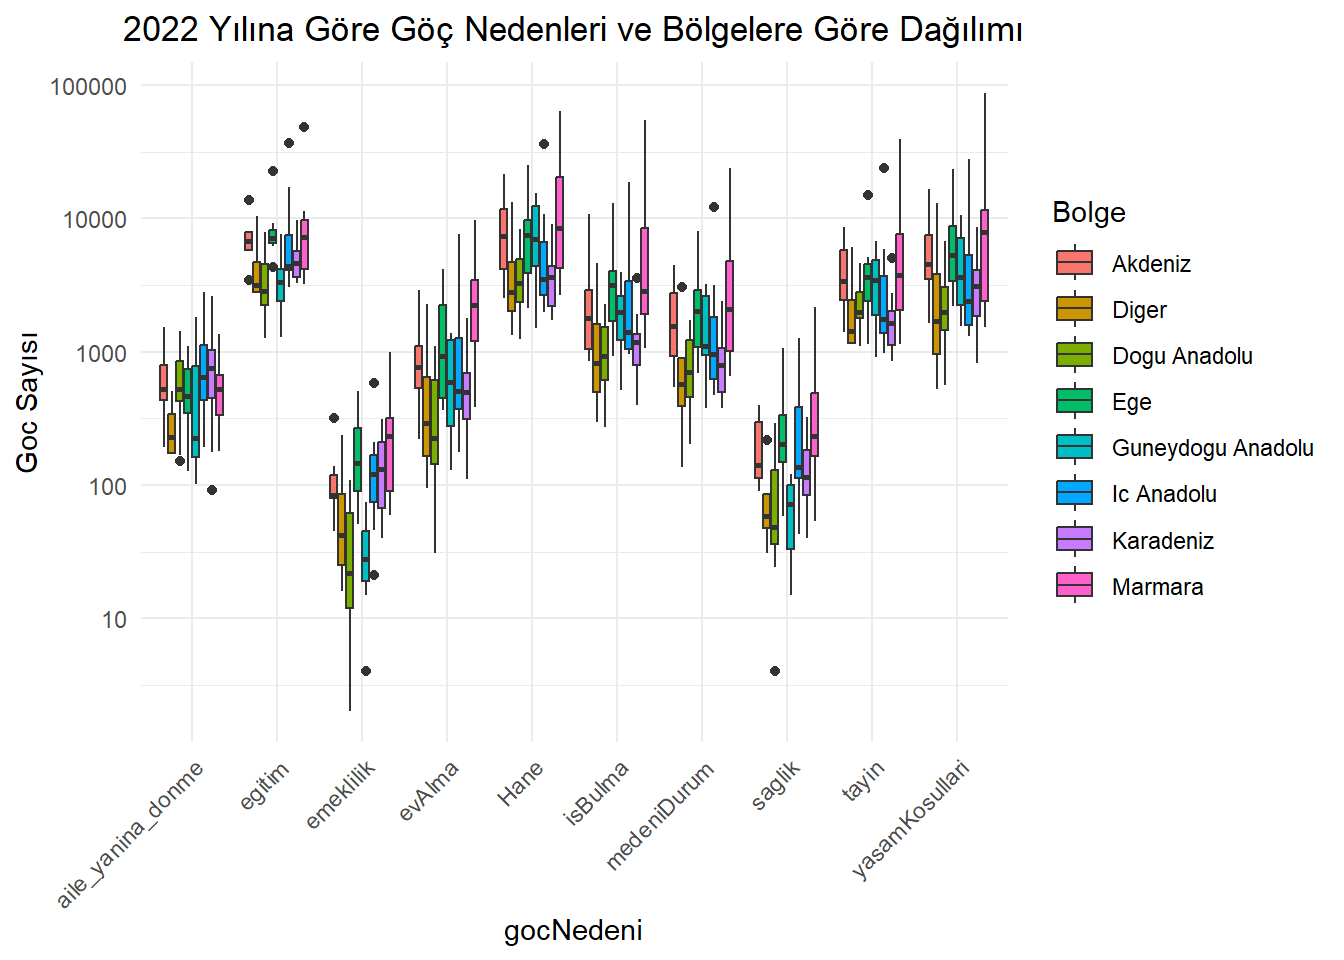
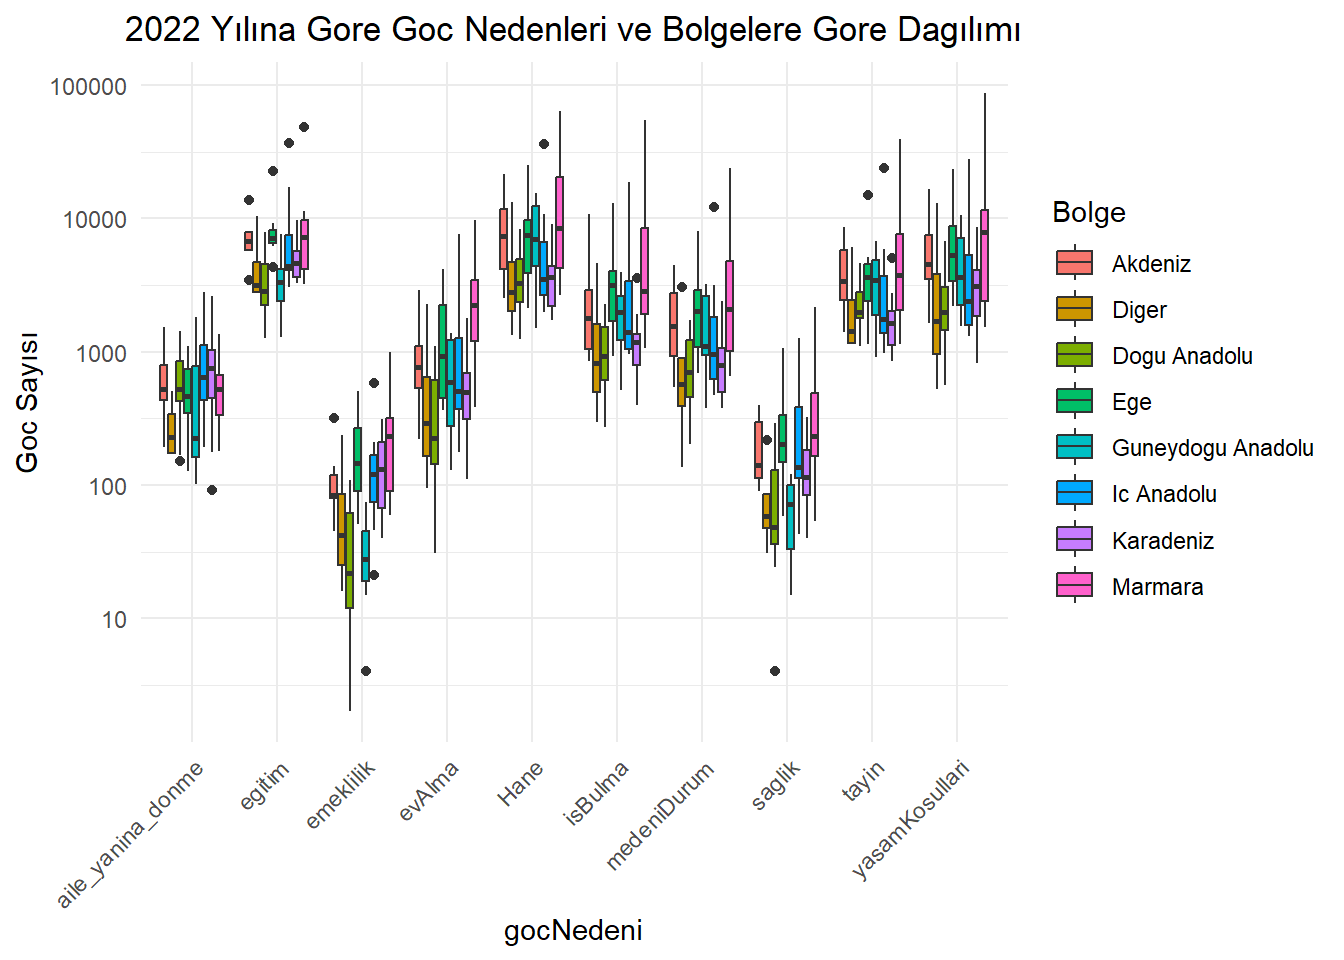
düzenleme
duzenleme

Changed region(s): [[0.5312, 0.0, 0.7812, 0.0625], [0.0938, 0.0, 0.3125, 0.0625]]

diff --git a/docs/proje.html b/docs/proje.html
@@ -529,29 +529,30 @@ The following object is masked from 'package:dplyr':
 </div>
 </div>
 <div class="cell">
-<div class="sourceCode cell-code" id="cb40"><pre class="sourceCode r code-with-copy"><code class="sourceCode r"><span id="cb40-1"><a href="#cb40-1" aria-hidden="true" tabindex="-1"></a>new_tidy_data <span class="ot">&lt;-</span> new_tidy_data <span class="sc">%&gt;%</span></span>
-<span id="cb40-2"><a href="#cb40-2" aria-hidden="true" tabindex="-1"></a>  <span class="fu">mutate</span>(<span class="at">bolge =</span> <span class="fu">case_when</span>(</span>
-<span id="cb40-3"><a href="#cb40-3" aria-hidden="true" tabindex="-1"></a>    il <span class="sc">%in%</span> <span class="fu">c</span>(<span class="st">"Istanbul"</span>, <span class="st">"Bursa"</span>, <span class="st">"Kocaeli"</span>, <span class="st">"Tekirdag"</span>,<span class="st">"Balikesir"</span>,<span class="st">"Canakkale"</span>,<span class="st">"Bilecik"</span>,<span class="st">"Edirne"</span>,<span class="st">"Kirklareli"</span>,<span class="st">"Sakarya"</span>,<span class="st">"Yalova"</span>) <span class="sc">~</span> <span class="st">"Marmara"</span>,</span>
-<span id="cb40-4"><a href="#cb40-4" aria-hidden="true" tabindex="-1"></a>    il <span class="sc">%in%</span> <span class="fu">c</span>(<span class="st">"Izmir"</span>, <span class="st">"Aydin"</span>, <span class="st">"Manisa"</span>,<span class="st">"Afyonkarahisar"</span>,<span class="st">"Denizli"</span>,<span class="st">"Kutahya"</span>,<span class="st">"Manisa"</span>,<span class="st">"Mugla"</span>,<span class="st">"Usak"</span>) <span class="sc">~</span> <span class="st">"Ege"</span>,</span>
-<span id="cb40-5"><a href="#cb40-5" aria-hidden="true" tabindex="-1"></a>    il <span class="sc">%in%</span> <span class="fu">c</span>(<span class="st">"Ankara"</span>, <span class="st">"Konya"</span>, <span class="st">"Eskisehir"</span>,<span class="st">"Cankiri"</span>,<span class="st">"Corum"</span>,<span class="st">"Kayseri"</span>,<span class="st">"Kirsehir</span></span>
-<span id="cb40-6"><a href="#cb40-6" aria-hidden="true" tabindex="-1"></a><span class="st">"</span>,<span class="st">"Konya"</span>,<span class="st">"Nevsehir"</span>,<span class="st">"Nigde"</span>,<span class="st">"Sivas"</span>,<span class="st">"Yozgat"</span>,<span class="st">"Aksaray"</span>,<span class="st">"Karaman"</span>,<span class="st">"Kirikkale"</span>) <span class="sc">~</span> <span class="st">"Ic Anadolu"</span>,</span>
-<span id="cb40-7"><a href="#cb40-7" aria-hidden="true" tabindex="-1"></a>    il <span class="sc">%in%</span> <span class="fu">c</span>(<span class="st">"Artvin"</span>, <span class="st">"Giresun"</span>, <span class="st">"Ordu"</span>,<span class="st">"Rize"</span>,<span class="st">"Sinop"</span>,<span class="st">"Tokat"</span>,<span class="st">"Trabzon"</span>,<span class="st">"Zonguldak"</span>,<span class="st">"Amasya"</span>,<span class="st">"Bolu"</span>,<span class="st">"Gumushane"</span>,<span class="st">"Kastamonu"</span>,<span class="st">"Samsun"</span>,<span class="st">"Sinop"</span>,<span class="st">"Bayburt</span></span>
-<span id="cb40-8"><a href="#cb40-8" aria-hidden="true" tabindex="-1"></a><span class="st">"</span>,<span class="st">"Bartin"</span>,<span class="st">"Karabuk"</span>,<span class="st">"Duzce"</span>) <span class="sc">~</span> <span class="st">"Karadeniz"</span>,</span>
-<span id="cb40-9"><a href="#cb40-9" aria-hidden="true" tabindex="-1"></a>    il <span class="sc">%in%</span> <span class="fu">c</span>(<span class="st">"Adana"</span>, <span class="st">"Antalya"</span>,<span class="st">"Burdur"</span>,<span class="st">"Hatay"</span>,<span class="st">"Isparta"</span>,<span class="st">"Kahramanmaras"</span>,<span class="st">"Osmaniye"</span>) <span class="sc">~</span> <span class="st">"Akdeniz"</span>,</span>
-<span id="cb40-10"><a href="#cb40-10" aria-hidden="true" tabindex="-1"></a>    il <span class="sc">%in%</span> <span class="fu">c</span>(<span class="st">"Adiyaman"</span>,<span class="st">"Diyarbakir"</span>,<span class="st">"Gaziantep"</span>,<span class="st">"Mardin"</span>,<span class="st">"Siirt"</span>,<span class="st">"Sanliurfa"</span>,<span class="st">"Batman"</span>,<span class="st">"Sirnak"</span>,<span class="st">"Kilis"</span>) <span class="sc">~</span> <span class="st">"Guneydogu Anadolu"</span>,</span>
-<span id="cb40-11"><a href="#cb40-11" aria-hidden="true" tabindex="-1"></a>    il <span class="sc">%in%</span> <span class="fu">c</span>(<span class="st">"Agri"</span>,<span class="st">"Bingol"</span>,<span class="st">"Bitlis"</span>,<span class="st">"Elazig"</span>,<span class="st">"Erzincan"</span>,<span class="st">"Erzurum"</span>,<span class="st">"Hakkari"</span>,<span class="st">"Kars"</span>,<span class="st">"Malatya"</span>,<span class="st">"Muş"</span>,<span class="st">"Tunceli"</span>,<span class="st">"Van"</span>,<span class="st">"Ardahan"</span>,<span class="st">"Igdir"</span>) <span class="sc">~</span> <span class="st">"Dogu Anadolu"</span>,</span>
-<span id="cb40-12"><a href="#cb40-12" aria-hidden="true" tabindex="-1"></a>    <span class="cn">TRUE</span> <span class="sc">~</span> <span class="st">"Diger"</span> <span class="co"># Diğer bölgelere dahil olan iller için bir kategori belirleyin</span></span>
-<span id="cb40-13"><a href="#cb40-13" aria-hidden="true" tabindex="-1"></a>  ))</span>
-<span id="cb40-14"><a href="#cb40-14" aria-hidden="true" tabindex="-1"></a><span class="fu">ggplot</span>(new_tidy_data <span class="sc">%&gt;%</span> <span class="fu">filter</span>(yil <span class="sc">==</span> <span class="dv">2022</span>), <span class="fu">aes</span>(<span class="at">x =</span> gocNedeni, <span class="at">y =</span> gocSayisi, <span class="at">fill =</span> bolge)) <span class="sc">+</span></span>
-<span id="cb40-15"><a href="#cb40-15" aria-hidden="true" tabindex="-1"></a>  <span class="fu">geom_boxplot</span>() <span class="sc">+</span></span>
-<span id="cb40-16"><a href="#cb40-16" aria-hidden="true" tabindex="-1"></a>  <span class="fu">labs</span>(<span class="at">title =</span> <span class="st">"2022 Yılına Göre Göç Nedenleri ve Bölgelere Göre Dağılımı"</span>,</span>
-<span id="cb40-17"><a href="#cb40-17" aria-hidden="true" tabindex="-1"></a>       <span class="at">x =</span> <span class="st">"gocNedeni"</span>,</span>
-<span id="cb40-18"><a href="#cb40-18" aria-hidden="true" tabindex="-1"></a>       <span class="at">y =</span> <span class="st">"Goc Sayısı"</span>,</span>
-<span id="cb40-19"><a href="#cb40-19" aria-hidden="true" tabindex="-1"></a>       <span class="at">fill =</span> <span class="st">"Bolge"</span>) <span class="sc">+</span></span>
-<span id="cb40-20"><a href="#cb40-20" aria-hidden="true" tabindex="-1"></a>  <span class="fu">theme_minimal</span>() <span class="sc">+</span></span>
-<span id="cb40-21"><a href="#cb40-21" aria-hidden="true" tabindex="-1"></a>  <span class="fu">theme</span>(<span class="at">plot.title =</span> <span class="fu">element_text</span>(<span class="at">hjust =</span> <span class="fl">0.5</span>),</span>
-<span id="cb40-22"><a href="#cb40-22" aria-hidden="true" tabindex="-1"></a>        <span class="at">axis.text.x =</span> <span class="fu">element_text</span>(<span class="at">angle =</span> <span class="dv">45</span>, <span class="at">hjust =</span> <span class="dv">1</span>))<span class="sc">+</span></span>
-<span id="cb40-23"><a href="#cb40-23" aria-hidden="true" tabindex="-1"></a> <span class="fu">scale_y_continuous</span>(<span class="at">trans =</span> <span class="st">'log10'</span>, <span class="at">labels =</span> <span class="cf">function</span>(x) <span class="fu">format</span>(x, <span class="at">scientific =</span> <span class="cn">FALSE</span>))  <span class="co"># Y eksenini logaritmik ölçekleme yaparak ayarla</span></span></code><button title="Copy to Clipboard" class="code-copy-button"><i class="bi"></i></button></pre></div>
+<div class="sourceCode cell-code" id="cb40"><pre class="sourceCode r code-with-copy"><code class="sourceCode r"><span id="cb40-1"><a href="#cb40-1" aria-hidden="true" tabindex="-1"></a><span class="do">##boxplot data görsel</span></span>
+<span id="cb40-2"><a href="#cb40-2" aria-hidden="true" tabindex="-1"></a>new_tidy_data <span class="ot">&lt;-</span> new_tidy_data <span class="sc">%&gt;%</span></span>
+<span id="cb40-3"><a href="#cb40-3" aria-hidden="true" tabindex="-1"></a>  <span class="fu">mutate</span>(<span class="at">bolge =</span> <span class="fu">case_when</span>(</span>
+<span id="cb40-4"><a href="#cb40-4" aria-hidden="true" tabindex="-1"></a>    il <span class="sc">%in%</span> <span class="fu">c</span>(<span class="st">"Istanbul"</span>, <span class="st">"Bursa"</span>, <span class="st">"Kocaeli"</span>, <span class="st">"Tekirdag"</span>,<span class="st">"Balikesir"</span>,<span class="st">"Canakkale"</span>,<span class="st">"Bilecik"</span>,<span class="st">"Edirne"</span>,<span class="st">"Kirklareli"</span>,<span class="st">"Sakarya"</span>,<span class="st">"Yalova"</span>) <span class="sc">~</span> <span class="st">"Marmara"</span>,</span>
+<span id="cb40-5"><a href="#cb40-5" aria-hidden="true" tabindex="-1"></a>    il <span class="sc">%in%</span> <span class="fu">c</span>(<span class="st">"Izmir"</span>, <span class="st">"Aydin"</span>, <span class="st">"Manisa"</span>,<span class="st">"Afyonkarahisar"</span>,<span class="st">"Denizli"</span>,<span class="st">"Kutahya"</span>,<span class="st">"Manisa"</span>,<span class="st">"Mugla"</span>,<span class="st">"Usak"</span>) <span class="sc">~</span> <span class="st">"Ege"</span>,</span>
+<span id="cb40-6"><a href="#cb40-6" aria-hidden="true" tabindex="-1"></a>    il <span class="sc">%in%</span> <span class="fu">c</span>(<span class="st">"Ankara"</span>, <span class="st">"Konya"</span>, <span class="st">"Eskisehir"</span>,<span class="st">"Cankiri"</span>,<span class="st">"Corum"</span>,<span class="st">"Kayseri"</span>,<span class="st">"Kirsehir</span></span>
+<span id="cb40-7"><a href="#cb40-7" aria-hidden="true" tabindex="-1"></a><span class="st">"</span>,<span class="st">"Konya"</span>,<span class="st">"Nevsehir"</span>,<span class="st">"Nigde"</span>,<span class="st">"Sivas"</span>,<span class="st">"Yozgat"</span>,<span class="st">"Aksaray"</span>,<span class="st">"Karaman"</span>,<span class="st">"Kirikkale"</span>) <span class="sc">~</span> <span class="st">"Ic Anadolu"</span>,</span>
+<span id="cb40-8"><a href="#cb40-8" aria-hidden="true" tabindex="-1"></a>    il <span class="sc">%in%</span> <span class="fu">c</span>(<span class="st">"Artvin"</span>, <span class="st">"Giresun"</span>, <span class="st">"Ordu"</span>,<span class="st">"Rize"</span>,<span class="st">"Sinop"</span>,<span class="st">"Tokat"</span>,<span class="st">"Trabzon"</span>,<span class="st">"Zonguldak"</span>,<span class="st">"Amasya"</span>,<span class="st">"Bolu"</span>,<span class="st">"Gumushane"</span>,<span class="st">"Kastamonu"</span>,<span class="st">"Samsun"</span>,<span class="st">"Sinop"</span>,<span class="st">"Bayburt</span></span>
+<span id="cb40-9"><a href="#cb40-9" aria-hidden="true" tabindex="-1"></a><span class="st">"</span>,<span class="st">"Bartin"</span>,<span class="st">"Karabuk"</span>,<span class="st">"Duzce"</span>) <span class="sc">~</span> <span class="st">"Karadeniz"</span>,</span>
+<span id="cb40-10"><a href="#cb40-10" aria-hidden="true" tabindex="-1"></a>    il <span class="sc">%in%</span> <span class="fu">c</span>(<span class="st">"Adana"</span>, <span class="st">"Antalya"</span>,<span class="st">"Burdur"</span>,<span class="st">"Hatay"</span>,<span class="st">"Isparta"</span>,<span class="st">"Kahramanmaras"</span>,<span class="st">"Osmaniye"</span>) <span class="sc">~</span> <span class="st">"Akdeniz"</span>,</span>
+<span id="cb40-11"><a href="#cb40-11" aria-hidden="true" tabindex="-1"></a>    il <span class="sc">%in%</span> <span class="fu">c</span>(<span class="st">"Adiyaman"</span>,<span class="st">"Diyarbakir"</span>,<span class="st">"Gaziantep"</span>,<span class="st">"Mardin"</span>,<span class="st">"Siirt"</span>,<span class="st">"Sanliurfa"</span>,<span class="st">"Batman"</span>,<span class="st">"Sirnak"</span>,<span class="st">"Kilis"</span>) <span class="sc">~</span> <span class="st">"Guneydogu Anadolu"</span>,</span>
+<span id="cb40-12"><a href="#cb40-12" aria-hidden="true" tabindex="-1"></a>    il <span class="sc">%in%</span> <span class="fu">c</span>(<span class="st">"Agri"</span>,<span class="st">"Bingol"</span>,<span class="st">"Bitlis"</span>,<span class="st">"Elazig"</span>,<span class="st">"Erzincan"</span>,<span class="st">"Erzurum"</span>,<span class="st">"Hakkari"</span>,<span class="st">"Kars"</span>,<span class="st">"Malatya"</span>,<span class="st">"Muş"</span>,<span class="st">"Tunceli"</span>,<span class="st">"Van"</span>,<span class="st">"Ardahan"</span>,<span class="st">"Igdir"</span>) <span class="sc">~</span> <span class="st">"Dogu Anadolu"</span>,</span>
+<span id="cb40-13"><a href="#cb40-13" aria-hidden="true" tabindex="-1"></a>    <span class="cn">TRUE</span> <span class="sc">~</span> <span class="st">"Diger"</span> <span class="co"># Diğer bölgelere dahil olan iller için bir kategori belirleyin</span></span>
+<span id="cb40-14"><a href="#cb40-14" aria-hidden="true" tabindex="-1"></a>  ))</span>
+<span id="cb40-15"><a href="#cb40-15" aria-hidden="true" tabindex="-1"></a><span class="fu">ggplot</span>(new_tidy_data <span class="sc">%&gt;%</span> <span class="fu">filter</span>(yil <span class="sc">==</span> <span class="dv">2022</span>), <span class="fu">aes</span>(<span class="at">x =</span> gocNedeni, <span class="at">y =</span> gocSayisi, <span class="at">fill =</span> bolge)) <span class="sc">+</span></span>
+<span id="cb40-16"><a href="#cb40-16" aria-hidden="true" tabindex="-1"></a>  <span class="fu">geom_boxplot</span>() <span class="sc">+</span></span>
+<span id="cb40-17"><a href="#cb40-17" aria-hidden="true" tabindex="-1"></a>  <span class="fu">labs</span>(<span class="at">title =</span> <span class="st">"2022 Yılına Gore Goc Nedenleri ve Bolgelere Gore Dagılımı"</span>,</span>
+<span id="cb40-18"><a href="#cb40-18" aria-hidden="true" tabindex="-1"></a>       <span class="at">x =</span> <span class="st">"gocNedeni"</span>,</span>
+<span id="cb40-19"><a href="#cb40-19" aria-hidden="true" tabindex="-1"></a>       <span class="at">y =</span> <span class="st">"Goc Sayısı"</span>,</span>
+<span id="cb40-20"><a href="#cb40-20" aria-hidden="true" tabindex="-1"></a>       <span class="at">fill =</span> <span class="st">"Bolge"</span>) <span class="sc">+</span></span>
+<span id="cb40-21"><a href="#cb40-21" aria-hidden="true" tabindex="-1"></a>  <span class="fu">theme_minimal</span>() <span class="sc">+</span></span>
+<span id="cb40-22"><a href="#cb40-22" aria-hidden="true" tabindex="-1"></a>  <span class="fu">theme</span>(<span class="at">plot.title =</span> <span class="fu">element_text</span>(<span class="at">hjust =</span> <span class="fl">0.5</span>),</span>
+<span id="cb40-23"><a href="#cb40-23" aria-hidden="true" tabindex="-1"></a>        <span class="at">axis.text.x =</span> <span class="fu">element_text</span>(<span class="at">angle =</span> <span class="dv">45</span>, <span class="at">hjust =</span> <span class="dv">1</span>))<span class="sc">+</span></span>
+<span id="cb40-24"><a href="#cb40-24" aria-hidden="true" tabindex="-1"></a> <span class="fu">scale_y_continuous</span>(<span class="at">trans =</span> <span class="st">'log10'</span>, <span class="at">labels =</span> <span class="cf">function</span>(x) <span class="fu">format</span>(x, <span class="at">scientific =</span> <span class="cn">FALSE</span>))  <span class="co"># Y eksenini logaritmik ölçekleme yaparak ayarla</span></span></code><button title="Copy to Clipboard" class="code-copy-button"><i class="bi"></i></button></pre></div>
 <div class="cell-output-display">
 <p><img src="proje_files/figure-html/unnamed-chunk-19-1.png" class="img-fluid" width="672"></p>
 </div>
@@ -586,33 +587,6 @@ The following object is masked from 'package:dplyr':
 </div>
 <div class="cell-output-display">
 <p><img src="proje_files/figure-html/unnamed-chunk-20-1.png" class="img-fluid" width="672"></p>
-</div>
-</div>
-<div class="cell">
-<div class="sourceCode cell-code" id="cb43"><pre class="sourceCode r code-with-copy"><code class="sourceCode r"><span id="cb43-1"><a href="#cb43-1" aria-hidden="true" tabindex="-1"></a>new_tidy_data <span class="ot">&lt;-</span> new_tidy_data <span class="sc">%&gt;%</span></span>
-<span id="cb43-2"><a href="#cb43-2" aria-hidden="true" tabindex="-1"></a>  <span class="fu">mutate</span>(<span class="at">bolge =</span> <span class="fu">case_when</span>(</span>
-<span id="cb43-3"><a href="#cb43-3" aria-hidden="true" tabindex="-1"></a>    il <span class="sc">%in%</span> <span class="fu">c</span>(<span class="st">"Istanbul"</span>, <span class="st">"Bursa"</span>, <span class="st">"Kocaeli"</span>, <span class="st">"Tekirdag"</span>,<span class="st">"Balikesir"</span>,<span class="st">"Canakkale"</span>,<span class="st">"Bilecik"</span>,<span class="st">"Edirne"</span>,<span class="st">"Kirklareli"</span>,<span class="st">"Sakarya"</span>,<span class="st">"Yalova"</span>) <span class="sc">~</span> <span class="st">"Marmara"</span>,</span>
-<span id="cb43-4"><a href="#cb43-4" aria-hidden="true" tabindex="-1"></a>    il <span class="sc">%in%</span> <span class="fu">c</span>(<span class="st">"Izmir"</span>, <span class="st">"Aydin"</span>, <span class="st">"Manisa"</span>,<span class="st">"Afyonkarahisar"</span>,<span class="st">"Denizli"</span>,<span class="st">"Kutahya"</span>,<span class="st">"Manisa"</span>,<span class="st">"Mugla"</span>,<span class="st">"Usak"</span>) <span class="sc">~</span> <span class="st">"Ege"</span>,</span>
-<span id="cb43-5"><a href="#cb43-5" aria-hidden="true" tabindex="-1"></a>    il <span class="sc">%in%</span> <span class="fu">c</span>(<span class="st">"Ankara"</span>, <span class="st">"Konya"</span>, <span class="st">"Eskisehir"</span>,<span class="st">"Cankiri"</span>,<span class="st">"Corum"</span>,<span class="st">"Kayseri"</span>,<span class="st">"Kirsehir</span></span>
-<span id="cb43-6"><a href="#cb43-6" aria-hidden="true" tabindex="-1"></a><span class="st">"</span>,<span class="st">"Konya"</span>,<span class="st">"Nevsehir"</span>,<span class="st">"Nigde"</span>,<span class="st">"Sivas"</span>,<span class="st">"Yozgat"</span>,<span class="st">"Aksaray"</span>,<span class="st">"Karaman"</span>,<span class="st">"Kirikkale"</span>) <span class="sc">~</span> <span class="st">"Ic Anadolu"</span>,</span>
-<span id="cb43-7"><a href="#cb43-7" aria-hidden="true" tabindex="-1"></a>    il <span class="sc">%in%</span> <span class="fu">c</span>(<span class="st">"Artvin"</span>, <span class="st">"Giresun"</span>, <span class="st">"Ordu"</span>,<span class="st">"Rize"</span>,<span class="st">"Sinop"</span>,<span class="st">"Tokat"</span>,<span class="st">"Trabzon"</span>,<span class="st">"Zonguldak"</span>,<span class="st">"Amasya"</span>,<span class="st">"Bolu"</span>,<span class="st">"Gumushane"</span>,<span class="st">"Kastamonu"</span>,<span class="st">"Samsun"</span>,<span class="st">"Sinop"</span>,<span class="st">"Bayburt</span></span>
-<span id="cb43-8"><a href="#cb43-8" aria-hidden="true" tabindex="-1"></a><span class="st">"</span>,<span class="st">"Bartin"</span>,<span class="st">"Karabuk"</span>,<span class="st">"Duzce"</span>) <span class="sc">~</span> <span class="st">"Karadeniz"</span>,</span>
-<span id="cb43-9"><a href="#cb43-9" aria-hidden="true" tabindex="-1"></a>    il <span class="sc">%in%</span> <span class="fu">c</span>(<span class="st">"Adana"</span>, <span class="st">"Antalya"</span>,<span class="st">"Burdur"</span>,<span class="st">"Hatay"</span>,<span class="st">"Isparta"</span>,<span class="st">"Kahramanmaras"</span>,<span class="st">"Osmaniye"</span>) <span class="sc">~</span> <span class="st">"Akdeniz"</span>,</span>
-<span id="cb43-10"><a href="#cb43-10" aria-hidden="true" tabindex="-1"></a>    il <span class="sc">%in%</span> <span class="fu">c</span>(<span class="st">"Adiyaman"</span>,<span class="st">"Diyarbakir"</span>,<span class="st">"Gaziantep"</span>,<span class="st">"Mardin"</span>,<span class="st">"Siirt"</span>,<span class="st">"Sanliurfa"</span>,<span class="st">"Batman"</span>,<span class="st">"Sirnak"</span>,<span class="st">"Kilis"</span>) <span class="sc">~</span> <span class="st">"Guneydogu Anadolu"</span>,</span>
-<span id="cb43-11"><a href="#cb43-11" aria-hidden="true" tabindex="-1"></a>    il <span class="sc">%in%</span> <span class="fu">c</span>(<span class="st">"Agri"</span>,<span class="st">"Bingol"</span>,<span class="st">"Bitlis"</span>,<span class="st">"Elazig"</span>,<span class="st">"Erzincan"</span>,<span class="st">"Erzurum"</span>,<span class="st">"Hakkari"</span>,<span class="st">"Kars"</span>,<span class="st">"Malatya"</span>,<span class="st">"Muş"</span>,<span class="st">"Tunceli"</span>,<span class="st">"Van"</span>,<span class="st">"Ardahan"</span>,<span class="st">"Igdir"</span>) <span class="sc">~</span> <span class="st">"Dogu Anadolu"</span>,</span>
-<span id="cb43-12"><a href="#cb43-12" aria-hidden="true" tabindex="-1"></a>    <span class="cn">TRUE</span> <span class="sc">~</span> <span class="st">"Diger"</span> <span class="co"># Diğer bölgelere dahil olan iller için bir kategori belirleyin</span></span>
-<span id="cb43-13"><a href="#cb43-13" aria-hidden="true" tabindex="-1"></a>  ))</span>
-<span id="cb43-14"><a href="#cb43-14" aria-hidden="true" tabindex="-1"></a><span class="fu">ggplot</span>(new_tidy_data <span class="sc">%&gt;%</span> <span class="fu">filter</span>(yil <span class="sc">==</span> <span class="dv">2022</span>), <span class="fu">aes</span>(<span class="at">x =</span> gocNedeni, <span class="at">y =</span> gocSayisi, <span class="at">fill =</span> bolge)) <span class="sc">+</span></span>
-<span id="cb43-15"><a href="#cb43-15" aria-hidden="true" tabindex="-1"></a>  <span class="fu">geom_boxplot</span>() <span class="sc">+</span></span>
-<span id="cb43-16"><a href="#cb43-16" aria-hidden="true" tabindex="-1"></a>  <span class="fu">labs</span>(<span class="at">title =</span> <span class="st">"2022 Yılına Göre Göç Nedenleri ve Bölgelere Göre Dağılımı"</span>,</span>
-<span id="cb43-17"><a href="#cb43-17" aria-hidden="true" tabindex="-1"></a>       <span class="at">x =</span> <span class="st">"gocNedeni"</span>,</span>
-<span id="cb43-18"><a href="#cb43-18" aria-hidden="true" tabindex="-1"></a>       <span class="at">y =</span> <span class="st">"Goc Sayısı"</span>,</span>
-<span id="cb43-19"><a href="#cb43-19" aria-hidden="true" tabindex="-1"></a>       <span class="at">fill =</span> <span class="st">"Bolge"</span>) <span class="sc">+</span></span>
-<span id="cb43-20"><a href="#cb43-20" aria-hidden="true" tabindex="-1"></a>  <span class="fu">theme_minimal</span>() <span class="sc">+</span></span>
-<span id="cb43-21"><a href="#cb43-21" aria-hidden="true" tabindex="-1"></a>  <span class="fu">theme</span>(<span class="at">plot.title =</span> <span class="fu">element_text</span>(<span class="at">hjust =</span> <span class="fl">0.5</span>),</span>
-<span id="cb43-22"><a href="#cb43-22" aria-hidden="true" tabindex="-1"></a>        <span class="at">axis.text.x =</span> <span class="fu">element_text</span>(<span class="at">angle =</span> <span class="dv">45</span>, <span class="at">hjust =</span> <span class="dv">1</span>))</span></code><button title="Copy to Clipboard" class="code-copy-button"><i class="bi"></i></button></pre></div>
-<div class="cell-output-display">
-<p><img src="proje_files/figure-html/unnamed-chunk-21-1.png" class="img-fluid" width="672"></p>
 </div>
 </div>
 </section>
